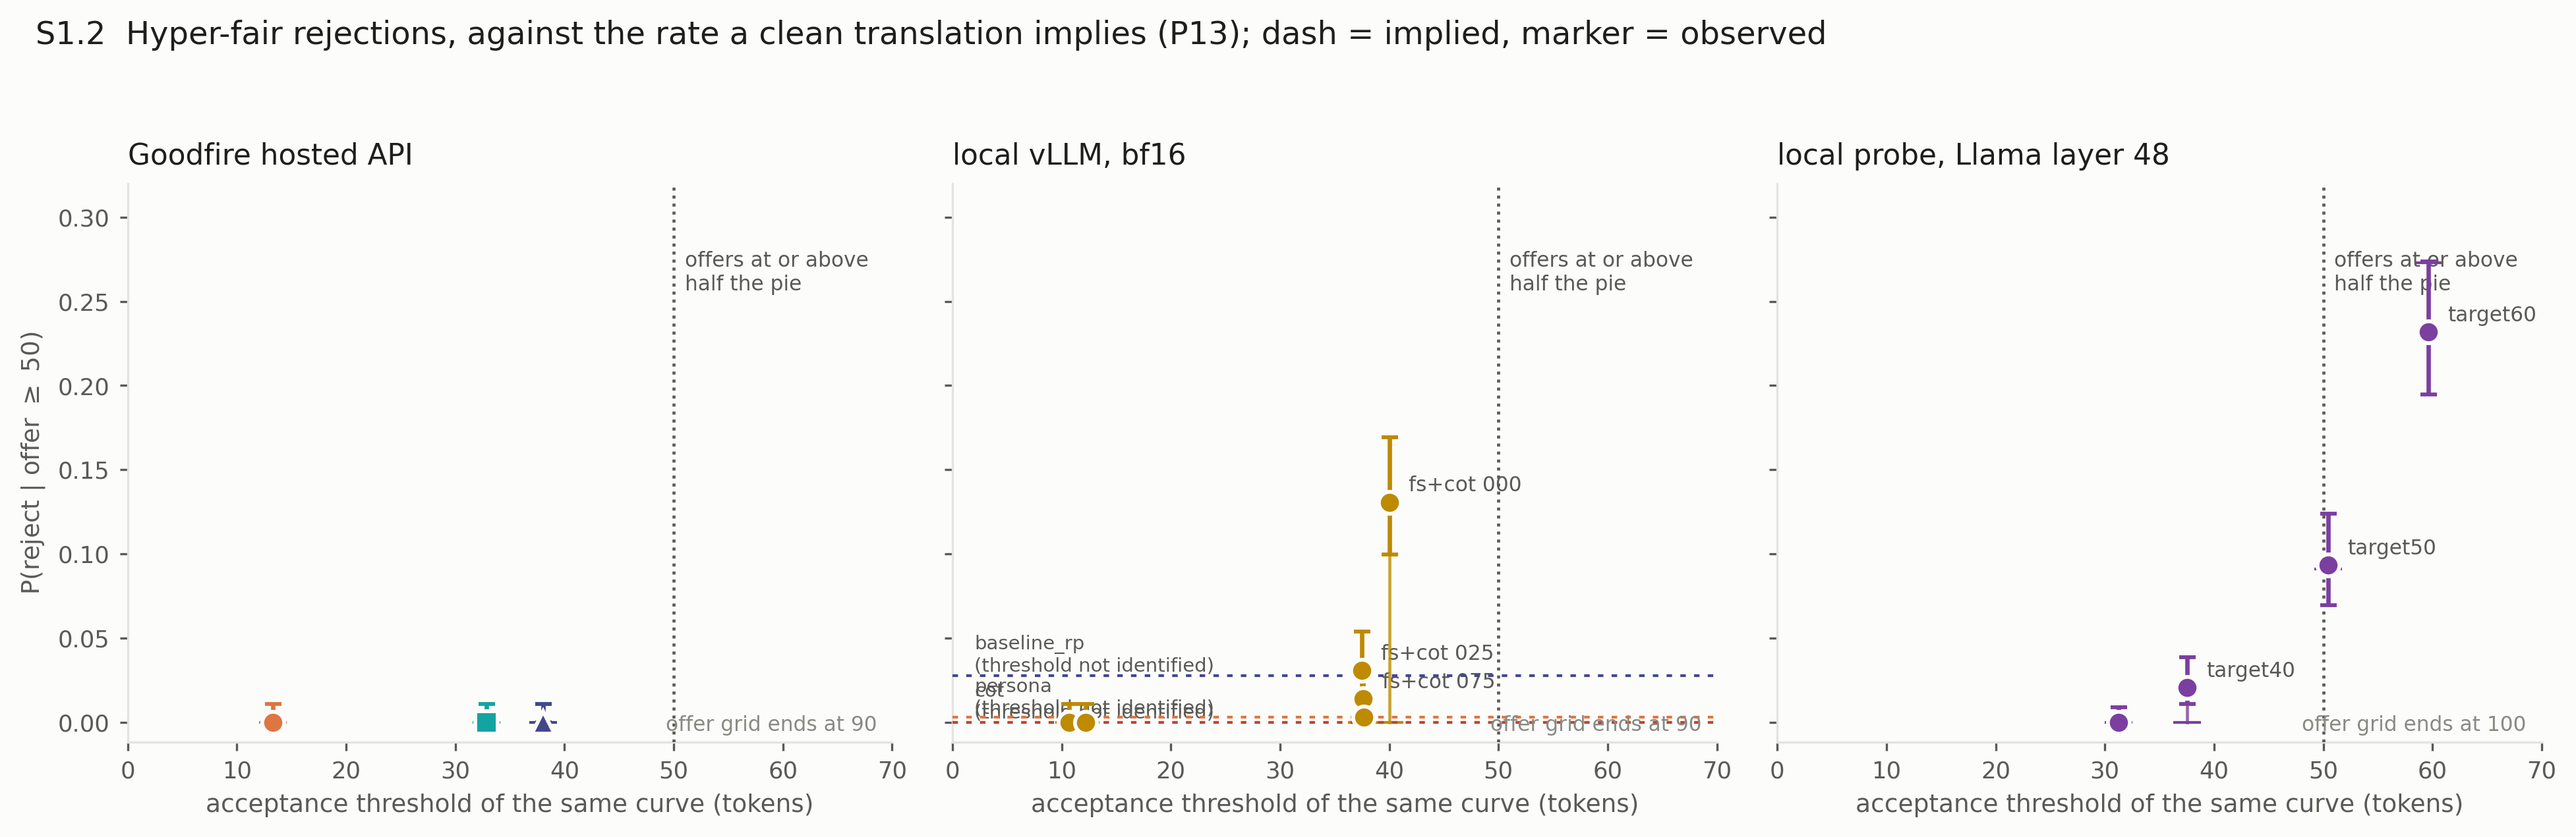
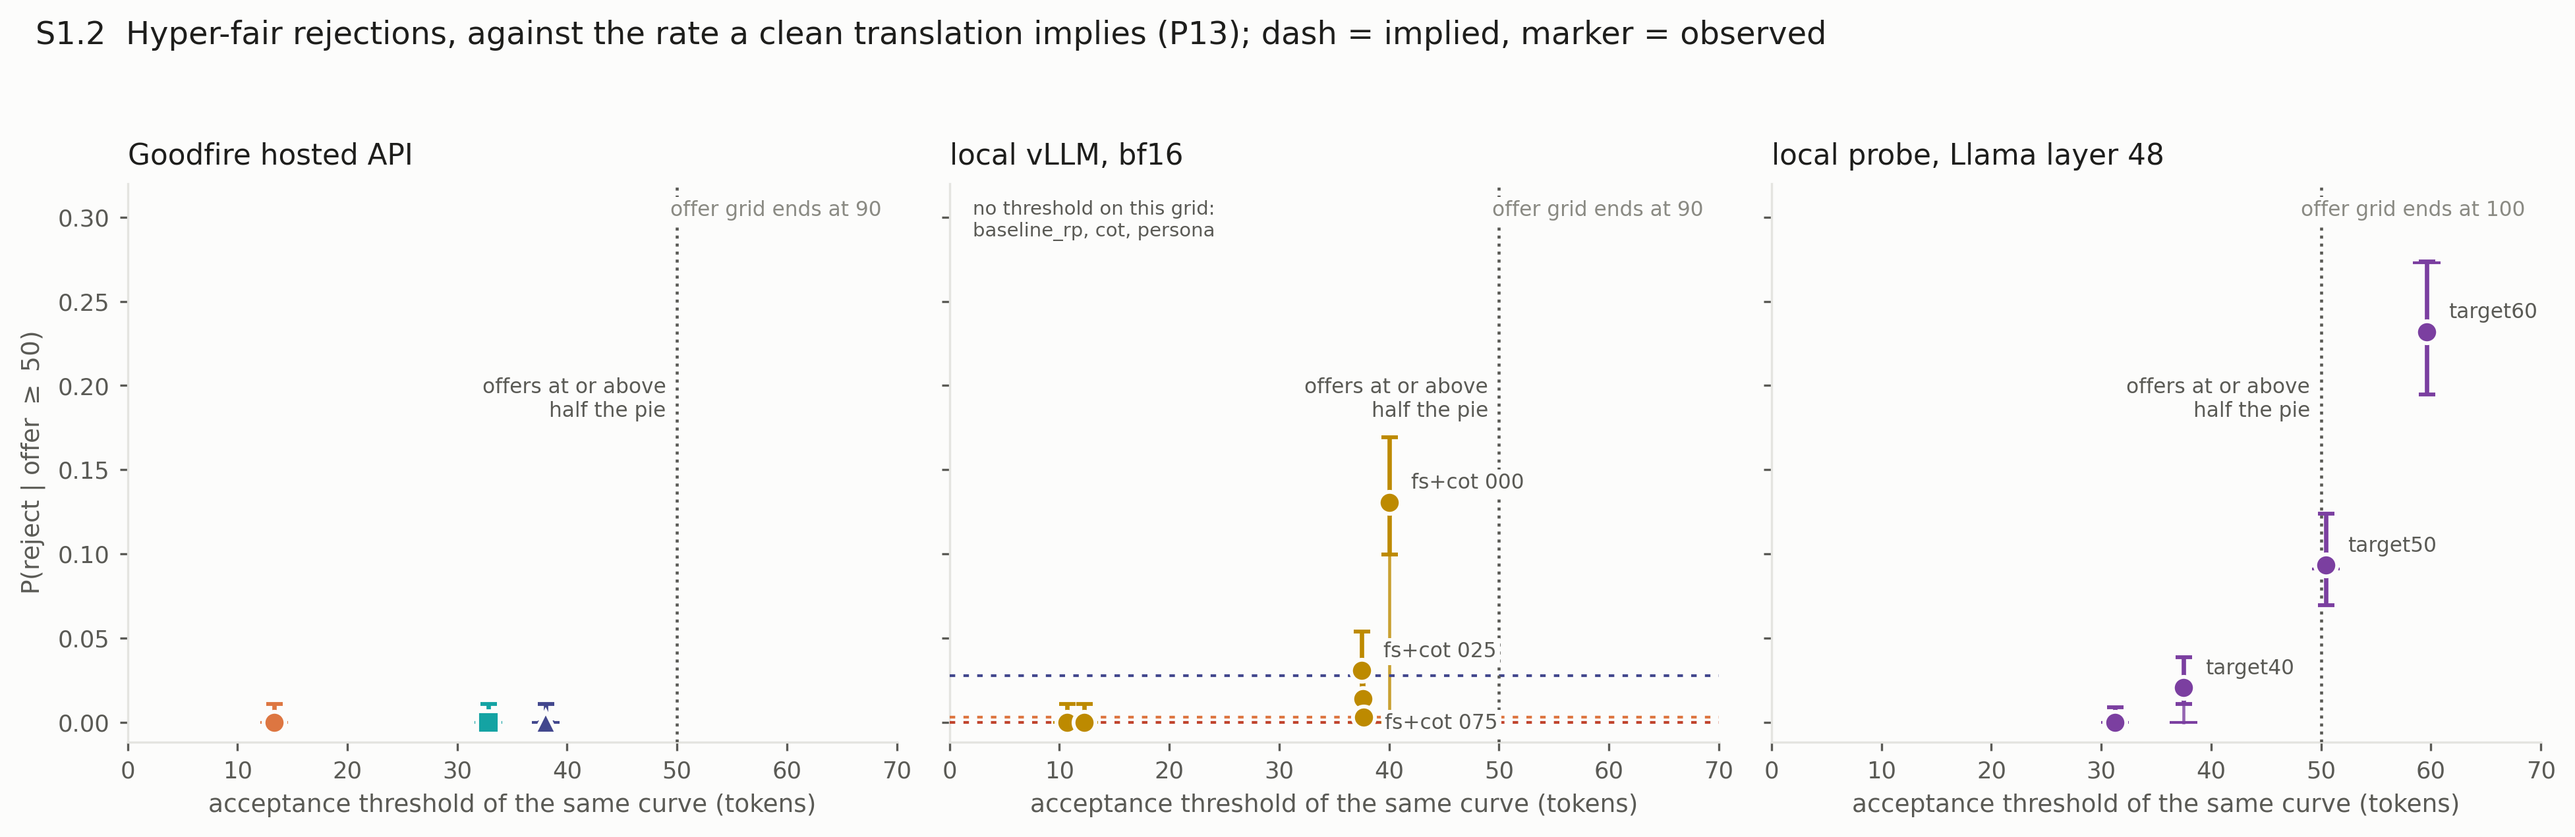
s1_2_catch: rebuild the annotation layout, five collisions removed

diff --git a/cv_bench/s1_figures.py b/cv_bench/s1_figures.py
@@ -219,9 +219,14 @@ def s1_2_catch():
     rows = read("s1_2_catch_ultimatum.csv")
     stacks = ["hosted", "vllm", "probe-llama-l48"]
     fig, axes = plt.subplots(1, 3, figsize=(13.2, 4.3), sharey=True)
+    # Opaque background for every small annotation: several dashed reference
+    # lines run the full width of these panels and struck through the text.
+    LBOX = dict(facecolor=SURFACE, edgecolor="none", pad=1.2)
     for ax, stack in zip(axes, stacks):
         sub = [r for r in rows if r["stack"] == stack]
         seen = {}
+        unidentified = []            # collected, then laid out as one block
+        placed = []                  # (x, y) of labels already written
         for r in sorted(sub, key=lambda r: f(r["threshold_interp"], 1e9)):
             x = f(r["threshold_interp"])
             y = f(r["p_reject_hyperfair"])
@@ -230,8 +235,7 @@ def s1_2_catch():
             m = MARKERS[seen.setdefault(c, len(seen)) % len(MARKERS)]
             if not np.isfinite(x):
                 ax.axhline(y, color=c, linewidth=1.0, linestyle=(0, (2, 3)), zorder=3)
-                ax.annotate(f"{r['condition']}\n(threshold not identified)", (2, y),
-                            fontsize=7, color=INK2, va="bottom")
+                unidentified.append((r["condition"], c))
                 continue
             imp = f(r.get("implied_by_translation", ""))
             if np.isfinite(imp):
@@ -242,13 +246,30 @@ def s1_2_catch():
                         markersize=8, capsize=3, elinewidth=1.6,
                         markeredgecolor=SURFACE, markeredgewidth=1.4, zorder=4)
             if y > 0.005:
+                # drop the label below the marker when a previous one sits within
+                # 0.02 of it in y; a fixed offset stacked fs+cot 025 on 075
+                dy = 5
+                if any(abs(y - py) < 0.02 and abs(x - px) < 12 for px, py in placed):
+                    dy = -11
                 ax.annotate(r["condition"].replace("fewshot_cot_dose", "fs+cot "), (x, y),
-                            textcoords="offset points", xytext=(7, 4), fontsize=7.5, color=INK2)
+                            textcoords="offset points", xytext=(8, dy), fontsize=7.5,
+                            color=INK2, bbox=LBOX, zorder=5)
+                placed.append((x, y))
+        if unidentified:
+            names = ", ".join(n for n, _ in unidentified)
+            ax.text(0.03, 0.97, f"no threshold on this grid:\n{names}",
+                    transform=ax.transAxes, fontsize=7, color=INK2, va="top",
+                    bbox=LBOX, zorder=5)
         gmax = max((f(r["offer_grid_max"]) for r in sub), default=90)
         ax.axvline(50, color=INK2, linewidth=1.1, linestyle=":", zorder=3)
-        ax.text(51, 0.28, "offers at or above\nhalf the pie", fontsize=7.5, color=INK2, va="top")
-        ax.text(0.98, 0.02, f"offer grid ends at {int(gmax)}", transform=ax.transAxes,
-                ha="right", fontsize=7.5, color=MUTED)
+        # left of the rule, not right: on the probe panel the right side is where
+        # the target60 point and its interval sit
+        # mid height, so the top row belongs to the two corner notes alone
+        ax.text(49, 0.205, "offers at or above\nhalf the pie", fontsize=7.5, color=INK2,
+                va="top", ha="right", bbox=LBOX, zorder=5)
+        # top right, not bottom: the bottom right is where the fs+cot labels land
+        ax.text(0.98, 0.97, f"offer grid ends at {int(gmax)}", transform=ax.transAxes,
+                ha="right", va="top", fontsize=7.5, color=MUTED, bbox=LBOX, zorder=5)
         style(ax, STACK_TITLE[stack], "acceptance threshold of the same curve (tokens)",
               "P(reject | offer $\\geq$ 50)" if stack == "hosted" else "")
         ax.set_xlim(0, 70)

diff --git a/logs/DECISIONS.md b/logs/DECISIONS.md
@@ -1190,3 +1190,31 @@ source comments and one docstring, which render nowhere.
 One layout fix this forced. s1_7's legend had `frameon=False`, and the longer "Goodfire
 baseline" label put the grey reference curve straight through the text. The legend now has an
 opaque SURFACE background at zorder 6. No data changed; all eleven figures regenerated.
+
+## D86 — s1_2 annotation layout rebuilt to remove five text collisions (22 Sept)
+
+Reported by the authors. Layout only; no value, interval or marker position changed.
+
+Collisions and what each one was:
+  1. the "(threshold not identified)" labels were annotated at (2, y) with y the condition's
+     own rate, so baseline_rp (0.0278), persona (0.003) and cot (0.000) were written within
+     0.03 of each other and struck through one another. They are now collected and printed
+     once as a single corner block, "no threshold on this grid: baseline_rp, cot, persona",
+     while each still draws its own dashed reference line.
+  2. every marker label used the same (7, 4) offset, so fs+cot 025 (y=0.031) and fs+cot 075
+     (y=0.014) landed on top of each other. The offset now drops to -11 when a label already
+     sits within 0.02 in y and 12 in x.
+  3. "offers at or above half the pie" sat at (51, 0.28), right of the rule, which on the
+     probe panel is exactly where target60 and its interval are. It moved left of the rule and
+     down to y=0.205.
+  4. "offer grid ends at N" sat at the bottom right, where the fs+cot labels land. It moved to
+     the top right.
+  5. after 4, it collided with the rule label along the top row, which is what 3's move to
+     mid height resolves.
+
+Every small annotation now carries an opaque SURFACE bbox at zorder 5, because these panels
+have full-width dashed reference lines at 0.000, 0.003 and 0.0278 that ran through the text
+whatever the placement.
+
+Only s1_2 was rebuilt. The other figures were checked visually after the label rename (D85) and
+the grid removal (D85's predecessor) and are clear.
